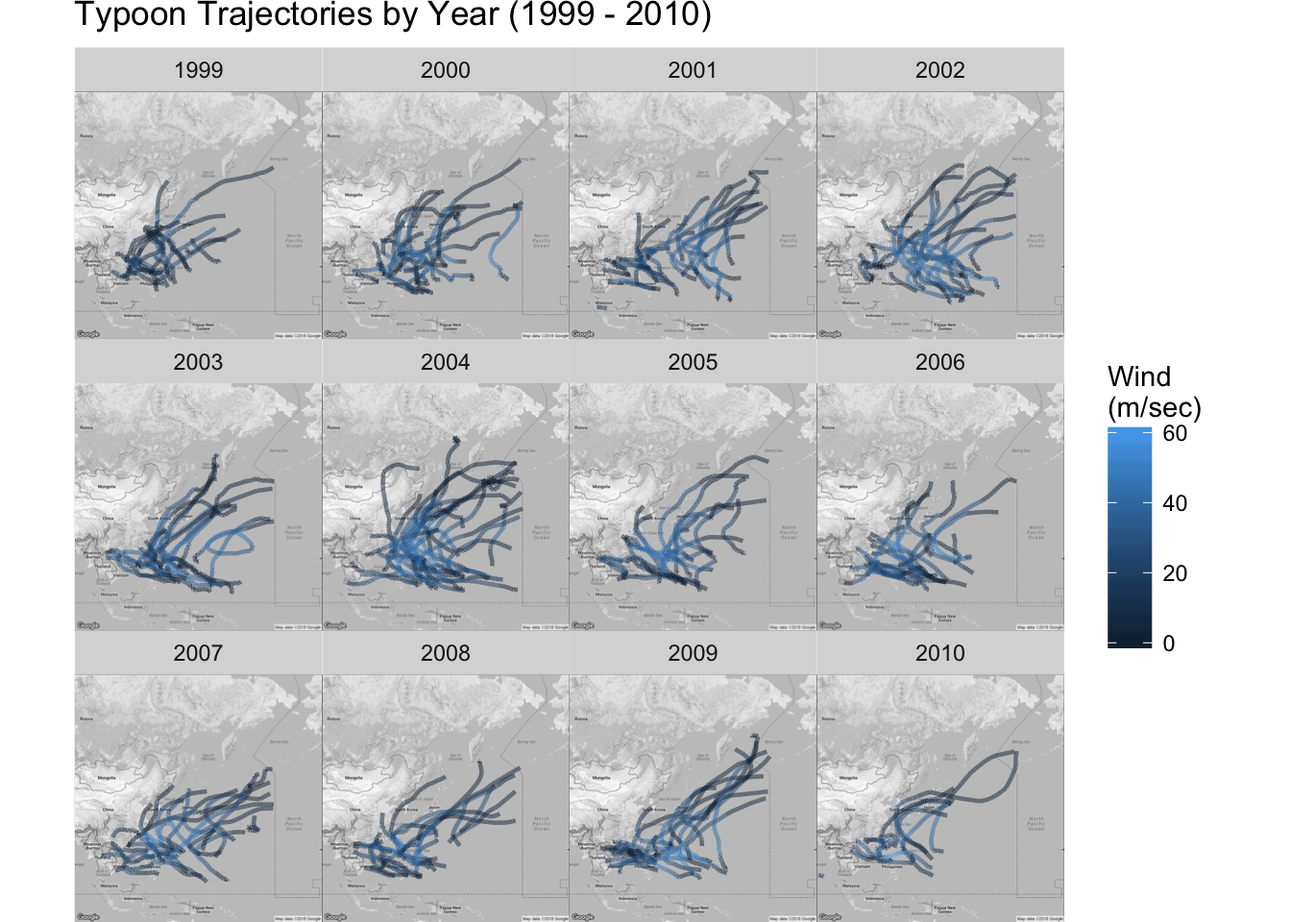
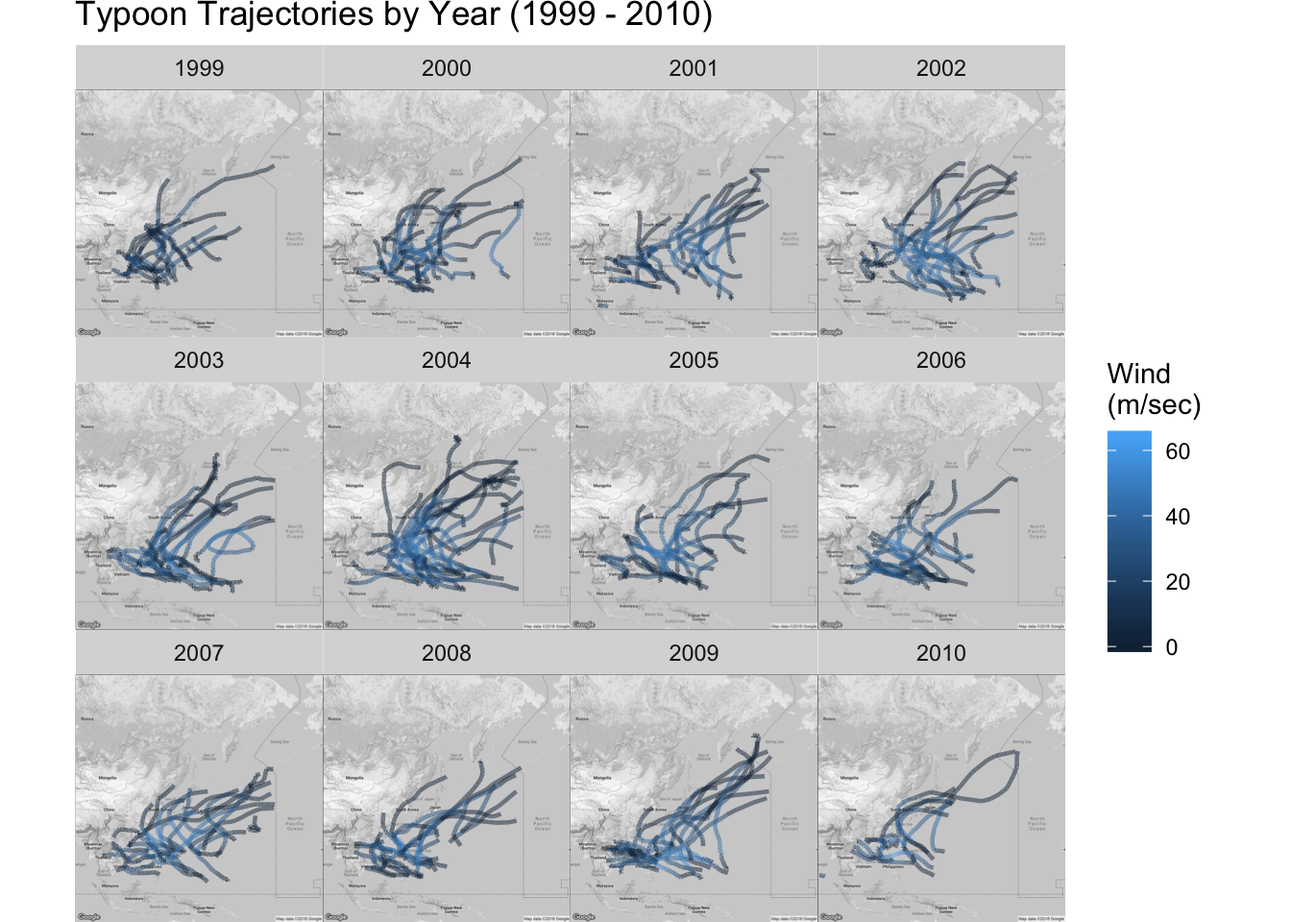
install package

diff --git a/content/post/2014-02-25-introduction-to-dplyr.html b/content/post/2014-02-25-introduction-to-dplyr.html
@@ -31,7 +31,6 @@ draft: false
 <pre class="r"><code>&gt; install.packages(c(&quot;dplyr&quot;, &quot;hflights&quot;))</code></pre>
 <pre class="r"><code>&gt; library(dplyr)
 &gt; library(hflights)</code></pre>
-<pre><code>#&gt; Error in library(hflights): there is no package called &#39;hflights&#39;</code></pre>
 <p>dplyr 패키지의 기본이 되는 것은 다음 5개 함수입니다.</p>
 <table>
 <thead>
@@ -72,32 +71,116 @@ draft: false
 <p>여기에 <code>group_by()</code> 함수를 추가로 이용하면 그룹별로 다양한 집계를 할 수 있습니다.</p>
 <p>예제에 사용된 데이터는 미국 휴스턴에서 출발하는 모든 비행기의 2011년 이착륙기록이 수록된 것으로 227,496건의 이착륙기록에 대해 21개 항목을 수집한 데이터입니다.</p>
 <pre class="r"><code>&gt; dim(hflights)</code></pre>
-<pre><code>#&gt; Error in eval(expr, envir, enclos): object &#39;hflights&#39; not found</code></pre>
+<pre><code>#&gt; [1] 227496     21</code></pre>
 <p>hflights 데이터는 관측치의 수가 많기 때문에 <code>tbl_df</code> 형식으로 변환해서 사용하는 것을 추천합니다.</p>
-<pre class="r"><code>&gt; hflights_df &lt;- tbl_df(hflights)</code></pre>
-<pre><code>#&gt; Error in as_data_frame(data): object &#39;hflights&#39; not found</code></pre>
-<pre class="r"><code>&gt; hflights_df</code></pre>
-<pre><code>#&gt; Error in eval(expr, envir, enclos): object &#39;hflights_df&#39; not found</code></pre>
+<pre class="r"><code>&gt; hflights_df &lt;- tbl_df(hflights)
+&gt; hflights_df</code></pre>
+<pre><code>#&gt; # A tibble: 227,496 x 21
+#&gt;     Year Month DayofMonth DayOfWeek DepTime ArrTime UniqueCarrier
+#&gt;  * &lt;int&gt; &lt;int&gt;      &lt;int&gt;     &lt;int&gt;   &lt;int&gt;   &lt;int&gt; &lt;chr&gt;        
+#&gt;  1  2011     1          1         6    1400    1500 AA           
+#&gt;  2  2011     1          2         7    1401    1501 AA           
+#&gt;  3  2011     1          3         1    1352    1502 AA           
+#&gt;  4  2011     1          4         2    1403    1513 AA           
+#&gt;  5  2011     1          5         3    1405    1507 AA           
+#&gt;  6  2011     1          6         4    1359    1503 AA           
+#&gt;  7  2011     1          7         5    1359    1509 AA           
+#&gt;  8  2011     1          8         6    1355    1454 AA           
+#&gt;  9  2011     1          9         7    1443    1554 AA           
+#&gt; 10  2011     1         10         1    1443    1553 AA           
+#&gt; # ... with 227,486 more rows, and 14 more variables: FlightNum &lt;int&gt;,
+#&gt; #   TailNum &lt;chr&gt;, ActualElapsedTime &lt;int&gt;, AirTime &lt;int&gt;, ArrDelay &lt;int&gt;,
+#&gt; #   DepDelay &lt;int&gt;, Origin &lt;chr&gt;, Dest &lt;chr&gt;, Distance &lt;int&gt;,
+#&gt; #   TaxiIn &lt;int&gt;, TaxiOut &lt;int&gt;, Cancelled &lt;int&gt;, CancellationCode &lt;chr&gt;,
+#&gt; #   Diverted &lt;int&gt;</code></pre>
 <p>이렇게 하면 모든 데이터를 화면에 출력하는 실수를 방지할 수 있습니다.</p>
 <div id="-filter---" class="section level3">
 <h3>함수 filter()를 이용한 데이터 추출</h3>
 <p>함수 <code>filter()</code>는 조건에 따라 행(row)을 추출합니다. 사용방법은 첫 번째 인수로 추출 대상이 되는 데이터 프레임을 지정하고, 두 번째 인수로 추출하고 싶은 행의 조건을 지정합니다. 이 서술방법은 dplyr 패키지의 다른 기본함수에도 똑같이 적용됩니다. AND 조건문 콤마(<code>,</code>)로 구별하거나 <code>&amp;</code> 연산자를 사용해도 되며 OR 조건문은 <code>|</code> 연산자를 이용합니다.</p>
 <pre class="r"><code>&gt; # 1월 1일 데이터 추출
 &gt; filter(hflights_df, Month == 1, DayofMonth == 1)</code></pre>
-<pre><code>#&gt; Error in filter(hflights_df, Month == 1, DayofMonth == 1): object &#39;hflights_df&#39; not found</code></pre>
+<pre><code>#&gt; # A tibble: 552 x 21
+#&gt;     Year Month DayofMonth DayOfWeek DepTime ArrTime UniqueCarrier
+#&gt;    &lt;int&gt; &lt;int&gt;      &lt;int&gt;     &lt;int&gt;   &lt;int&gt;   &lt;int&gt; &lt;chr&gt;        
+#&gt;  1  2011     1          1         6    1400    1500 AA           
+#&gt;  2  2011     1          1         6     728     840 AA           
+#&gt;  3  2011     1          1         6    1631    1736 AA           
+#&gt;  4  2011     1          1         6    1756    2112 AA           
+#&gt;  5  2011     1          1         6    1012    1347 AA           
+#&gt;  6  2011     1          1         6    1211    1325 AA           
+#&gt;  7  2011     1          1         6     557     906 AA           
+#&gt;  8  2011     1          1         6    1824    2106 AS           
+#&gt;  9  2011     1          1         6     654    1124 B6           
+#&gt; 10  2011     1          1         6    1639    2110 B6           
+#&gt; # ... with 542 more rows, and 14 more variables: FlightNum &lt;int&gt;,
+#&gt; #   TailNum &lt;chr&gt;, ActualElapsedTime &lt;int&gt;, AirTime &lt;int&gt;, ArrDelay &lt;int&gt;,
+#&gt; #   DepDelay &lt;int&gt;, Origin &lt;chr&gt;, Dest &lt;chr&gt;, Distance &lt;int&gt;,
+#&gt; #   TaxiIn &lt;int&gt;, TaxiOut &lt;int&gt;, Cancelled &lt;int&gt;, CancellationCode &lt;chr&gt;,
+#&gt; #   Diverted &lt;int&gt;</code></pre>
 <pre class="r"><code>&gt; # 1월 혹은 2월 데이터 추출
 &gt; filter(hflights_df, Month == 1 | Month == 2)</code></pre>
-<pre><code>#&gt; Error in filter(hflights_df, Month == 1 | Month == 2): object &#39;hflights_df&#39; not found</code></pre>
+<pre><code>#&gt; # A tibble: 36,038 x 21
+#&gt;     Year Month DayofMonth DayOfWeek DepTime ArrTime UniqueCarrier
+#&gt;    &lt;int&gt; &lt;int&gt;      &lt;int&gt;     &lt;int&gt;   &lt;int&gt;   &lt;int&gt; &lt;chr&gt;        
+#&gt;  1  2011     1          1         6    1400    1500 AA           
+#&gt;  2  2011     1          2         7    1401    1501 AA           
+#&gt;  3  2011     1          3         1    1352    1502 AA           
+#&gt;  4  2011     1          4         2    1403    1513 AA           
+#&gt;  5  2011     1          5         3    1405    1507 AA           
+#&gt;  6  2011     1          6         4    1359    1503 AA           
+#&gt;  7  2011     1          7         5    1359    1509 AA           
+#&gt;  8  2011     1          8         6    1355    1454 AA           
+#&gt;  9  2011     1          9         7    1443    1554 AA           
+#&gt; 10  2011     1         10         1    1443    1553 AA           
+#&gt; # ... with 36,028 more rows, and 14 more variables: FlightNum &lt;int&gt;,
+#&gt; #   TailNum &lt;chr&gt;, ActualElapsedTime &lt;int&gt;, AirTime &lt;int&gt;, ArrDelay &lt;int&gt;,
+#&gt; #   DepDelay &lt;int&gt;, Origin &lt;chr&gt;, Dest &lt;chr&gt;, Distance &lt;int&gt;,
+#&gt; #   TaxiIn &lt;int&gt;, TaxiOut &lt;int&gt;, Cancelled &lt;int&gt;, CancellationCode &lt;chr&gt;,
+#&gt; #   Diverted &lt;int&gt;</code></pre>
 </div>
 <div id="-arrange--" class="section level3">
 <h3>함수 arrange()를 이용한 정렬</h3>
 <p>함수 <code>arrange()</code>는 지정한 열을 기준으로 작은 값으로부터 큰 값의 순으로 데이터를 정렬합니다. 역순으로 정렬할 때는 함수 desc()를 함께 사용합니다.</p>
 <pre class="r"><code>&gt; # 데이터를 ArrDelay, Month, Year 순으로 정렬
 &gt; arrange(hflights_df, ArrDelay, Month, Year)</code></pre>
-<pre><code>#&gt; Error in arrange(hflights_df, ArrDelay, Month, Year): object &#39;hflights_df&#39; not found</code></pre>
+<pre><code>#&gt; # A tibble: 227,496 x 21
+#&gt;     Year Month DayofMonth DayOfWeek DepTime ArrTime UniqueCarrier
+#&gt;    &lt;int&gt; &lt;int&gt;      &lt;int&gt;     &lt;int&gt;   &lt;int&gt;   &lt;int&gt; &lt;chr&gt;        
+#&gt;  1  2011     7          3         7    1914    2039 XE           
+#&gt;  2  2011    12         25         7     741     926 OO           
+#&gt;  3  2011     8         21         7     935    1039 OO           
+#&gt;  4  2011     8         31         3     934    1039 OO           
+#&gt;  5  2011     8         26         5    2107    2205 OO           
+#&gt;  6  2011    12         24         6    2129    2337 CO           
+#&gt;  7  2011     8         28         7    2059    2206 OO           
+#&gt;  8  2011     8         29         1     935    1041 OO           
+#&gt;  9  2011     8         18         4     939    1043 OO           
+#&gt; 10  2011    12         24         6    2117    2258 CO           
+#&gt; # ... with 227,486 more rows, and 14 more variables: FlightNum &lt;int&gt;,
+#&gt; #   TailNum &lt;chr&gt;, ActualElapsedTime &lt;int&gt;, AirTime &lt;int&gt;, ArrDelay &lt;int&gt;,
+#&gt; #   DepDelay &lt;int&gt;, Origin &lt;chr&gt;, Dest &lt;chr&gt;, Distance &lt;int&gt;,
+#&gt; #   TaxiIn &lt;int&gt;, TaxiOut &lt;int&gt;, Cancelled &lt;int&gt;, CancellationCode &lt;chr&gt;,
+#&gt; #   Diverted &lt;int&gt;</code></pre>
 <pre class="r"><code>&gt; # 데이터를 Month의 큰 값으로 부터 작은 값 순으로 정렬
 &gt; arrange(hflights_df, desc(Month))</code></pre>
-<pre><code>#&gt; Error in arrange(hflights_df, desc(Month)): object &#39;hflights_df&#39; not found</code></pre>
+<pre><code>#&gt; # A tibble: 227,496 x 21
+#&gt;     Year Month DayofMonth DayOfWeek DepTime ArrTime UniqueCarrier
+#&gt;    &lt;int&gt; &lt;int&gt;      &lt;int&gt;     &lt;int&gt;   &lt;int&gt;   &lt;int&gt; &lt;chr&gt;        
+#&gt;  1  2011    12         15         4    2113    2217 AA           
+#&gt;  2  2011    12         16         5    2004    2128 AA           
+#&gt;  3  2011    12         18         7    2007    2113 AA           
+#&gt;  4  2011    12         19         1    2108    2223 AA           
+#&gt;  5  2011    12         20         2    2008    2107 AA           
+#&gt;  6  2011    12         21         3    2025    2124 AA           
+#&gt;  7  2011    12         22         4    2021    2118 AA           
+#&gt;  8  2011    12         23         5    2015    2118 AA           
+#&gt;  9  2011    12         26         1    2013    2118 AA           
+#&gt; 10  2011    12         27         2    2007    2123 AA           
+#&gt; # ... with 227,486 more rows, and 14 more variables: FlightNum &lt;int&gt;,
+#&gt; #   TailNum &lt;chr&gt;, ActualElapsedTime &lt;int&gt;, AirTime &lt;int&gt;, ArrDelay &lt;int&gt;,
+#&gt; #   DepDelay &lt;int&gt;, Origin &lt;chr&gt;, Dest &lt;chr&gt;, Distance &lt;int&gt;,
+#&gt; #   TaxiIn &lt;int&gt;, TaxiOut &lt;int&gt;, Cancelled &lt;int&gt;, CancellationCode &lt;chr&gt;,
+#&gt; #   Diverted &lt;int&gt;</code></pre>
 </div>
 <div id="-select-mutate---" class="section level3">
 <h3>함수 select(), mutate()를 이용한 열의 조작</h3>
@@ -105,69 +188,143 @@ draft: false
 <p>지정한 열 이외의 다른 열을 추출하고 싶을 때는 괄호 안에 제외하고 하고 싶은 열의 이름을 지정하고 괄호 앞에 <code>-</code> 부호를 붙여줍니다.</p>
 <pre class="r"><code>&gt; # Year, Month, DayOfWeek 열을 추출
 &gt; select(hflights_df, Year, Month, DayOfWeek)</code></pre>
-<pre><code>#&gt; Error in select(hflights_df, Year, Month, DayOfWeek): object &#39;hflights_df&#39; not found</code></pre>
+<pre><code>#&gt; # A tibble: 227,496 x 3
+#&gt;     Year Month DayOfWeek
+#&gt;  * &lt;int&gt; &lt;int&gt;     &lt;int&gt;
+#&gt;  1  2011     1         6
+#&gt;  2  2011     1         7
+#&gt;  3  2011     1         1
+#&gt;  4  2011     1         2
+#&gt;  5  2011     1         3
+#&gt;  6  2011     1         4
+#&gt;  7  2011     1         5
+#&gt;  8  2011     1         6
+#&gt;  9  2011     1         7
+#&gt; 10  2011     1         1
+#&gt; # ... with 227,486 more rows</code></pre>
 <pre class="r"><code>&gt; # Year부터 DayOfWeek까지 추출(Year, Month, DayofMonth, DayofWeek)
 &gt; select(hflights_df, Year:DayOfWeek)</code></pre>
-<pre><code>#&gt; Error in select(hflights_df, Year:DayOfWeek): object &#39;hflights_df&#39; not found</code></pre>
+<pre><code>#&gt; # A tibble: 227,496 x 4
+#&gt;     Year Month DayofMonth DayOfWeek
+#&gt;  * &lt;int&gt; &lt;int&gt;      &lt;int&gt;     &lt;int&gt;
+#&gt;  1  2011     1          1         6
+#&gt;  2  2011     1          2         7
+#&gt;  3  2011     1          3         1
+#&gt;  4  2011     1          4         2
+#&gt;  5  2011     1          5         3
+#&gt;  6  2011     1          6         4
+#&gt;  7  2011     1          7         5
+#&gt;  8  2011     1          8         6
+#&gt;  9  2011     1          9         7
+#&gt; 10  2011     1         10         1
+#&gt; # ... with 227,486 more rows</code></pre>
 <pre class="r"><code>&gt; # Year부터 DayOfWeek를 제외한 나머지 열을 추출
 &gt; select(hflights_df, -(Year:DayOfWeek))</code></pre>
-<pre><code>#&gt; Error in select(hflights_df, -(Year:DayOfWeek)): object &#39;hflights_df&#39; not found</code></pre>
+<pre><code>#&gt; # A tibble: 227,496 x 17
+#&gt;    DepTime ArrTime UniqueCarrier FlightNum TailNum ActualElapsedTime
+#&gt;  *   &lt;int&gt;   &lt;int&gt; &lt;chr&gt;             &lt;int&gt; &lt;chr&gt;               &lt;int&gt;
+#&gt;  1    1400    1500 AA                  428 N576AA                 60
+#&gt;  2    1401    1501 AA                  428 N557AA                 60
+#&gt;  3    1352    1502 AA                  428 N541AA                 70
+#&gt;  4    1403    1513 AA                  428 N403AA                 70
+#&gt;  5    1405    1507 AA                  428 N492AA                 62
+#&gt;  6    1359    1503 AA                  428 N262AA                 64
+#&gt;  7    1359    1509 AA                  428 N493AA                 70
+#&gt;  8    1355    1454 AA                  428 N477AA                 59
+#&gt;  9    1443    1554 AA                  428 N476AA                 71
+#&gt; 10    1443    1553 AA                  428 N504AA                 70
+#&gt; # ... with 227,486 more rows, and 11 more variables: AirTime &lt;int&gt;,
+#&gt; #   ArrDelay &lt;int&gt;, DepDelay &lt;int&gt;, Origin &lt;chr&gt;, Dest &lt;chr&gt;,
+#&gt; #   Distance &lt;int&gt;, TaxiIn &lt;int&gt;, TaxiOut &lt;int&gt;, Cancelled &lt;int&gt;,
+#&gt; #   CancellationCode &lt;chr&gt;, Diverted &lt;int&gt;</code></pre>
 <p>함수 mutate()는 열을 추가할 때 사용합니다.</p>
 <p>비슷한 기능을 하는 함수로 transform()이 있지만, 함수 mutate()는 함수에서 새로 만든 열을 같은 함수 안에서 바로 사용할 수 있는 장점이 있습니다. 글보다는 예제를 보는 것이 이해가 빠를 것 같습니다.</p>
 <pre class="r"><code>&gt; # 생성된 열 gain을 gain_per_hour의 계산에 사용할 수 있음
 &gt; mutate(hflights_df, gain = ArrDelay - DepDelay, gain_per_hour = gain/(AirTime/60))</code></pre>
-<pre><code>#&gt; Error in mutate(hflights_df, gain = ArrDelay - DepDelay, gain_per_hour = gain/(AirTime/60)): object &#39;hflights_df&#39; not found</code></pre>
+<pre><code>#&gt; # A tibble: 227,496 x 23
+#&gt;     Year Month DayofMonth DayOfWeek DepTime ArrTime UniqueCarrier
+#&gt;    &lt;int&gt; &lt;int&gt;      &lt;int&gt;     &lt;int&gt;   &lt;int&gt;   &lt;int&gt; &lt;chr&gt;        
+#&gt;  1  2011     1          1         6    1400    1500 AA           
+#&gt;  2  2011     1          2         7    1401    1501 AA           
+#&gt;  3  2011     1          3         1    1352    1502 AA           
+#&gt;  4  2011     1          4         2    1403    1513 AA           
+#&gt;  5  2011     1          5         3    1405    1507 AA           
+#&gt;  6  2011     1          6         4    1359    1503 AA           
+#&gt;  7  2011     1          7         5    1359    1509 AA           
+#&gt;  8  2011     1          8         6    1355    1454 AA           
+#&gt;  9  2011     1          9         7    1443    1554 AA           
+#&gt; 10  2011     1         10         1    1443    1553 AA           
+#&gt; # ... with 227,486 more rows, and 16 more variables: FlightNum &lt;int&gt;,
+#&gt; #   TailNum &lt;chr&gt;, ActualElapsedTime &lt;int&gt;, AirTime &lt;int&gt;, ArrDelay &lt;int&gt;,
+#&gt; #   DepDelay &lt;int&gt;, Origin &lt;chr&gt;, Dest &lt;chr&gt;, Distance &lt;int&gt;,
+#&gt; #   TaxiIn &lt;int&gt;, TaxiOut &lt;int&gt;, Cancelled &lt;int&gt;, CancellationCode &lt;chr&gt;,
+#&gt; #   Diverted &lt;int&gt;, gain &lt;int&gt;, gain_per_hour &lt;dbl&gt;</code></pre>
 <pre class="r"><code>&gt; # 생성된 열 gain을 gain_per_hour의 계산에 사용할 수 없음
 &gt; transform(hflights, gain = ArrDelay - DepDelay, gain_per_hour = gain/(AirTime/60))</code></pre>
-<pre><code>#&gt; Error in transform(hflights, gain = ArrDelay - DepDelay, gain_per_hour = gain/(AirTime/60)): object &#39;hflights&#39; not found</code></pre>
+<pre><code>#&gt; Error in eval(substitute(list(...)), `_data`, parent.frame()): object &#39;gain&#39; not found</code></pre>
 </div>
 <div id="-summarise--" class="section level3">
 <h3>함수 summarise()를 이용한 집계</h3>
 <p>함수 summarise()는 mean(), sd(), var(), median() 등의 함수를 지정하여 기초 통계량을 구할 수 있습니다. 결과값이 데이터 프레임 형식으로 돌아오는 것에 주의하세요.</p>
 <pre class="r"><code>&gt; # 평균 출발지연시간 계산
 &gt; summarise(hflights_df, delay = mean(DepDelay, na.rm = TRUE))</code></pre>
-<pre><code>#&gt; Error in summarise(hflights_df, delay = mean(DepDelay, na.rm = TRUE)): object &#39;hflights_df&#39; not found</code></pre>
+<pre><code>#&gt; # A tibble: 1 x 1
+#&gt;   delay
+#&gt;   &lt;dbl&gt;
+#&gt; 1  9.44</code></pre>
 </div>
 <div id="-group_by--" class="section level3">
 <h3>함수 group_by()를 이용한 그룹화</h3>
 <p>함수 group_by()에서 지정한 열의 수준(level)별로 그룹화된 결과를 얻을 수 있습니다.<br />
 예를 들어 비행편수 20편 이상, 평균 비행 거리 2,000마일 이상인 항공사별 평균 연착시간을 계산하여 그림으로 표현하는 코드는 다음과 같습니다.</p>
-<pre class="r"><code>&gt; planes &lt;- group_by(hflights_df, TailNum)</code></pre>
-<pre><code>#&gt; Error in group_by(hflights_df, TailNum): object &#39;hflights_df&#39; not found</code></pre>
-<pre class="r"><code>&gt; delay &lt;- summarise(planes, count = n(), 
+<pre class="r"><code>&gt; planes &lt;- group_by(hflights_df, TailNum)
+&gt; delay &lt;- summarise(planes, count = n(), 
 +                    dist = mean(Distance, na.rm = TRUE), 
-+                    delay = mean(ArrDelay, na.rm = TRUE))</code></pre>
-<pre><code>#&gt; Error in summarise(planes, count = n(), dist = mean(Distance, na.rm = TRUE), : object &#39;planes&#39; not found</code></pre>
-<pre class="r"><code>&gt; delay &lt;- filter(delay, count &gt; 20, dist &lt; 2000)</code></pre>
-<pre><code>#&gt; Error in filter(delay, count &gt; 20, dist &lt; 2000): object &#39;delay&#39; not found</code></pre>
-<pre class="r"><code>&gt; library(ggplot2)
++                    delay = mean(ArrDelay, na.rm = TRUE))
+&gt; delay &lt;- filter(delay, count &gt; 20, dist &lt; 2000)
+&gt; 
+&gt; library(ggplot2)
 &gt; ggplot(delay, aes(dist, delay)) + 
 +   geom_point(aes(size = count), alpha = 1/2) + 
 +   geom_smooth() + 
 +   scale_size_area()</code></pre>
-<pre><code>#&gt; Error in ggplot(delay, aes(dist, delay)): object &#39;delay&#39; not found</code></pre>
+<pre><code>#&gt; `geom_smooth()` using method = &#39;gam&#39; and formula &#39;y ~ s(x, bs = &quot;cs&quot;)&#39;</code></pre>
+<p><img src="/post/2014-02-25-introduction-to-dplyr_files/figure-html/unnamed-chunk-16-1.png" width="672" /></p>
 <p>함수 group_by()의 더 많은 예제는 이 글의 참고에서 언급한 패키지 안에 포함된 소개문서를 참고하세요.</p>
 </div>
 <div id="dplyr---chain-" class="section level3">
 <h3>dplyr 패키지의 백미, chain() 함수</h3>
 <p>함수 chain() 혹은 간단히 <code>%&gt;%</code>를 이용함으로써 각 조작을 연결해서 한 번에 수행할 수 있습니다. 즉, 최종 결과를 얻기 위해 임시로 데이터 프레임을 만들지 않아도 되는 편리한 기능입니다. 개인적으로는 dplyr 패키지의 백미라고 생각합니다.</p>
 <p>지금까지 일관되게 첫 번째 인수에 데이터 프레임을 지정했습니다. 그러나 <code>%&gt;%</code>로 연결하면 가장 먼저 데이터 프레임을 지정하면 그다음부터는 인수를 생략할 수 있을 뿐 아니라 앞선 함수의 결과(데이터 프레임)를 뒤에 오는 함수의 입력값으로 사용하게 됩니다. 역시 예제를 실행해 확인해 보는 것이 좋겠죠.</p>
-<pre class="r"><code>&gt; a1 &lt;- group_by(hflights, Year, Month, DayofMonth)</code></pre>
-<pre><code>#&gt; Error in group_by(hflights, Year, Month, DayofMonth): object &#39;hflights&#39; not found</code></pre>
-<pre class="r"><code>&gt; a2 &lt;- select(a1, Year:DayofMonth, ArrDelay, DepDelay)</code></pre>
-<pre><code>#&gt; Error in select(a1, Year:DayofMonth, ArrDelay, DepDelay): object &#39;a1&#39; not found</code></pre>
-<pre class="r"><code>&gt; a3 &lt;- summarise(a2, arr = mean(ArrDelay, na.rm = TRUE), 
-+                 dep = mean(DepDelay, na.rm = TRUE))</code></pre>
-<pre><code>#&gt; Error in summarise(a2, arr = mean(ArrDelay, na.rm = TRUE), dep = mean(DepDelay, : object &#39;a2&#39; not found</code></pre>
-<pre class="r"><code>&gt; a4 &lt;- filter(a3, arr &gt; 30 | dep &gt; 30)</code></pre>
-<pre><code>#&gt; Error in filter(a3, arr &gt; 30 | dep &gt; 30): object &#39;a3&#39; not found</code></pre>
+<pre class="r"><code>&gt; a1 &lt;- group_by(hflights, Year, Month, DayofMonth)
+&gt; a2 &lt;- select(a1, Year:DayofMonth, ArrDelay, DepDelay)
+&gt; a3 &lt;- summarise(a2, arr = mean(ArrDelay, na.rm = TRUE), 
++                 dep = mean(DepDelay, na.rm = TRUE))
+&gt; a4 &lt;- filter(a3, arr &gt; 30 | dep &gt; 30)</code></pre>
 <p>위 예제는 hflights 데이터를 a1) Year, Month, DayofMonth의 수준별로 그룹화, a2) Year부터 DayofMonth, ArrDelay, DepDealy 열을 선택, a3) 평균 연착시간과 평균 출발 지연시간을 구하고, a4) 평균 연착시간과 평균 출발지연시간이 30분 이상인 데이터를 추출한 결과입니다. 위 예제를 <code>%&gt;%</code> 함수를 이용하면 다음과 같습니다.</p>
 <pre class="r"><code>&gt; hflights_df %&gt;% 
 +   group_by(Year, Month, DayofMonth) %&gt;% 
 +   summarise(arr = mean(ArrDelay, na.rm = TRUE), 
 +             dep = mean(DepDelay, na.rm = TRUE)) %&gt;% 
 +   filter(arr &gt; 30 |  dep &gt; 30)</code></pre>
-<pre><code>#&gt; Error in eval(lhs, parent, parent): object &#39;hflights_df&#39; not found</code></pre>
+<pre><code>#&gt; # A tibble: 14 x 5
+#&gt; # Groups:   Year, Month [10]
+#&gt;     Year Month DayofMonth   arr   dep
+#&gt;    &lt;int&gt; &lt;int&gt;      &lt;int&gt; &lt;dbl&gt; &lt;dbl&gt;
+#&gt;  1  2011     2          4  44.1  47.2
+#&gt;  2  2011     3          3  35.1  38.2
+#&gt;  3  2011     3         14  46.6  36.1
+#&gt;  4  2011     4          4  38.7  27.9
+#&gt;  5  2011     4         25  37.8  22.3
+#&gt;  6  2011     5         12  69.5  64.5
+#&gt;  7  2011     5         20  37.0  26.6
+#&gt;  8  2011     6         22  65.5  62.3
+#&gt;  9  2011     7         29  29.6  31.9
+#&gt; 10  2011     9         29  39.2  32.5
+#&gt; 11  2011    10          9  61.9  59.5
+#&gt; 12  2011    11         15  43.7  39.2
+#&gt; 13  2011    12         29  26.3  30.8
+#&gt; 14  2011    12         31  46.5  54.2</code></pre>
 </div>
 </div>
 <div class="section level2">

diff --git a/content/post/2014-02-27-typhoon-trajectories.html b/content/post/2014-02-27-typhoon-trajectories.html
@@ -19,9 +19,8 @@ draft: false
 <div id="r--" class="section level3">
 <h3>R을 이용한 시각화</h3>
 <pre class="r"><code>&gt; # 패키지 불러오기
-&gt; library(ggmap)</code></pre>
-<pre><code>#&gt; Error in library(ggmap): there is no package called &#39;ggmap&#39;</code></pre>
-<pre class="r"><code>&gt; library(ggplot2)
+&gt; library(ggmap)
+&gt; library(ggplot2)
 &gt; library(dplyr)</code></pre>
 <p>우리나라에 영향을 미치는 태풍의 경로를 알아보기 위해 IBTrACS에서 Western North Pacific(WP) 지역 데이터 불러온다. 불러온 데이터의 형식이 모두 문자형이기 때문에 연도, 위도, 경도를 숫자형으로 변환. 풍속단위를 노트(knot)에서 초속(m/s)으로 변환.</p>
 <pre class="r"><code>&gt; # IBTrACS에서 Western North Pacfic(WP) 지역 데이터 불러오기 
@@ -42,24 +41,22 @@ draft: false
 +                 Latitude = as.numeric(gsub(&quot;^ &quot;, &quot;&quot;, Latitude)),
 +                 Longitude = as.numeric(gsub(&quot;^ &quot;, &quot;&quot;, Longitude)),
 +                 Wind.WMO. = as.numeric(gsub(&quot;^ &quot;, &quot;&quot;, Wind.WMO.)) * 0.5144,
-+                 ISO_time = as.POSIXct(ISO_time),
++                 ISO_time = as.POSIXct(ISO_time, tz = &quot;UTC&quot;),
 +                 Month = factor(substr(ISO_time, 6,7), labels = c(month.name))
 + )</code></pre>
-<pre><code>#&gt; Error in mutate_impl(.data, dots): Evaluation error: character string is not in a standard unambiguous format.</code></pre>
 <p>데이터에 수록된 가장 최근 기록이 2010년이기 때문에, 1999~2010년 태풍 정보만 추출하고 이름이 없는 태풍도 삭제.</p>
 <p>지도에 각 태풍의 경로를 그리기 위해 태풍 ID 생성.</p>
 <pre class="r"><code>&gt; substorms &lt;- WP.df %&gt;% 
 +   filter(Season %in% 1999:2010 &amp; !(Name == &quot;NOT NAMED&quot;)) %&gt;%
 +   mutate(ID = as.factor(paste(Name, Season, sep = &quot;.&quot;)))</code></pre>
-<pre><code>#&gt; Error in eval(lhs, parent, parent): object &#39;WP.df&#39; not found</code></pre>
 <p><strong>maps</strong> 패키지를 이용하면 참고했던 사이트의 그림과 비슷한 그림을 그릴 수 있겠지만, 지도의 윗부분이 이상하게 나와서 <strong>ggmap</strong> 패키지를 이용하기로 했다. 구글맵에서 위도 40도, 경도 145도를 중심으로 한 지도를 가져온 후, 그 위에 각 태풍의 경로를 시각화.</p>
 <pre class="r"><code>&gt; map &lt;- ggmap(get_googlemap(center = c(lon=145, lat=40), 
 +                            zoom=3, maptype=&quot;terrain&quot;,
-+                            color=&quot;bw&quot;, scale=2), extent=&quot;device&quot;)</code></pre>
-<pre><code>#&gt; Error in ggmap(get_googlemap(center = c(lon = 145, lat = 40), zoom = 3, : could not find function &quot;ggmap&quot;</code></pre>
-<pre class="r"><code>&gt; # 태풍이동경로 1999 - 2010
++                            color=&quot;bw&quot;, scale=2), extent=&quot;device&quot;)
+&gt; 
+&gt; # 태풍이동경로 1999 - 2010
 &gt; map + geom_path(data = substorms, 
-+                 aes(x = Longitude, y = Latitude,group = ID, colour = Wind.WMO.), 
++                 aes(x = Longitude, y = Latitude, group = ID, color = Wind.WMO.), 
 +                 alpha = 0.5, size = 0.8) + 
 +   labs(x = &quot;&quot;, y = &quot;&quot;, colour = &quot;Wind \n(m/sec)&quot;,
 +        title = &quot;Typhoon Trajectories 1999 - 2010&quot;) +
@@ -67,7 +64,7 @@ draft: false
 +         axis.text.x = element_blank(), 
 +         axis.text.y = element_blank(), axis.ticks = element_blank(), 
 +         panel.grid.major = element_blank(), panel.grid.minor = element_blank())</code></pre>
-<pre><code>#&gt; Error in eval(expr, envir, enclos): object &#39;map&#39; not found</code></pre>
+<p><img src="/post/2014-02-27-typhoon-trajectories_files/figure-html/unnamed-chunk-5-1.png" width="672" /></p>
 <p>함수 <code>ggplot2::facet_warp</code>를 사용하여 연도별, 월별 태풍 이동 경로를 시각화</p>
 <pre class="r"><code>&gt; map + 
 +   geom_path(
@@ -89,7 +86,7 @@ draft: false
 +     panel.grid.major = element_blank(), 
 +     panel.grid.minor = element_blank()
 +   ) </code></pre>
-<pre><code>#&gt; Error in eval(expr, envir, enclos): object &#39;map&#39; not found</code></pre>
+<p><img src="/post/2014-02-27-typhoon-trajectories_files/figure-html/unnamed-chunk-6-1.png" width="672" /></p>
 <pre class="r"><code>&gt; map + 
 +   geom_path(
 +     data = substorms, 
@@ -109,7 +106,7 @@ draft: false
 +     panel.grid.major = element_blank(), 
 +     panel.grid.minor = element_blank()
 +   ) </code></pre>
-<pre><code>#&gt; Error in eval(expr, envir, enclos): object &#39;map&#39; not found</code></pre>
+<p><img src="/post/2014-02-27-typhoon-trajectories_files/figure-html/unnamed-chunk-7-1.png" width="672" /></p>
 <p>그나저나 구글맵 쓸때마다 저 Sea of Japan이 참 거슬리네…</p>
 <blockquote>
 <p>구글아 구글아 동해를 내놓아라 내어놓지 않으면 구워서 먹으리.</p>
